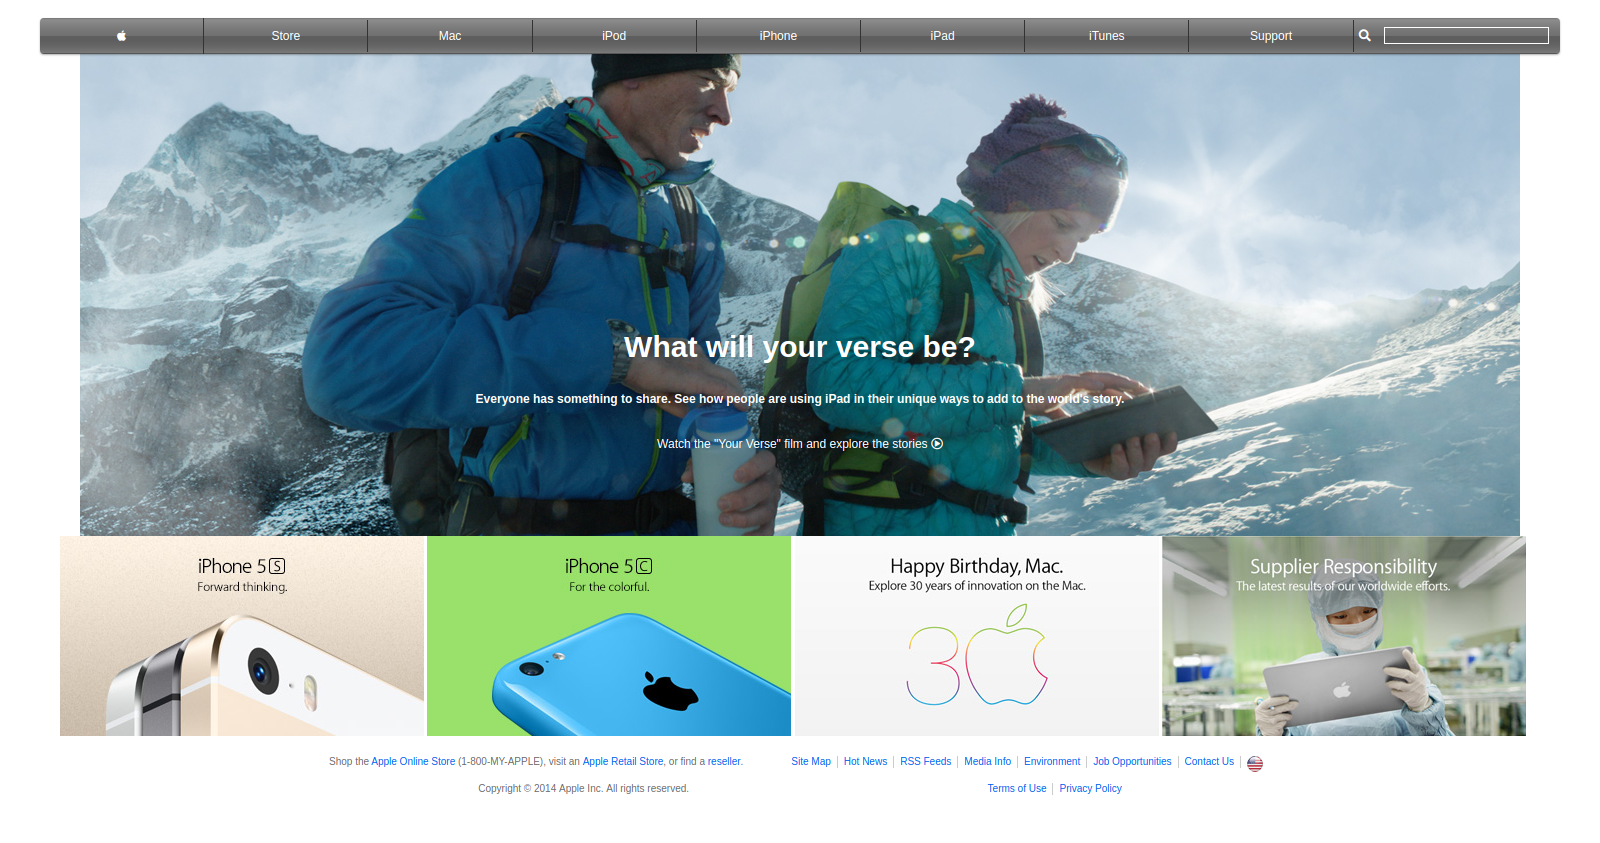
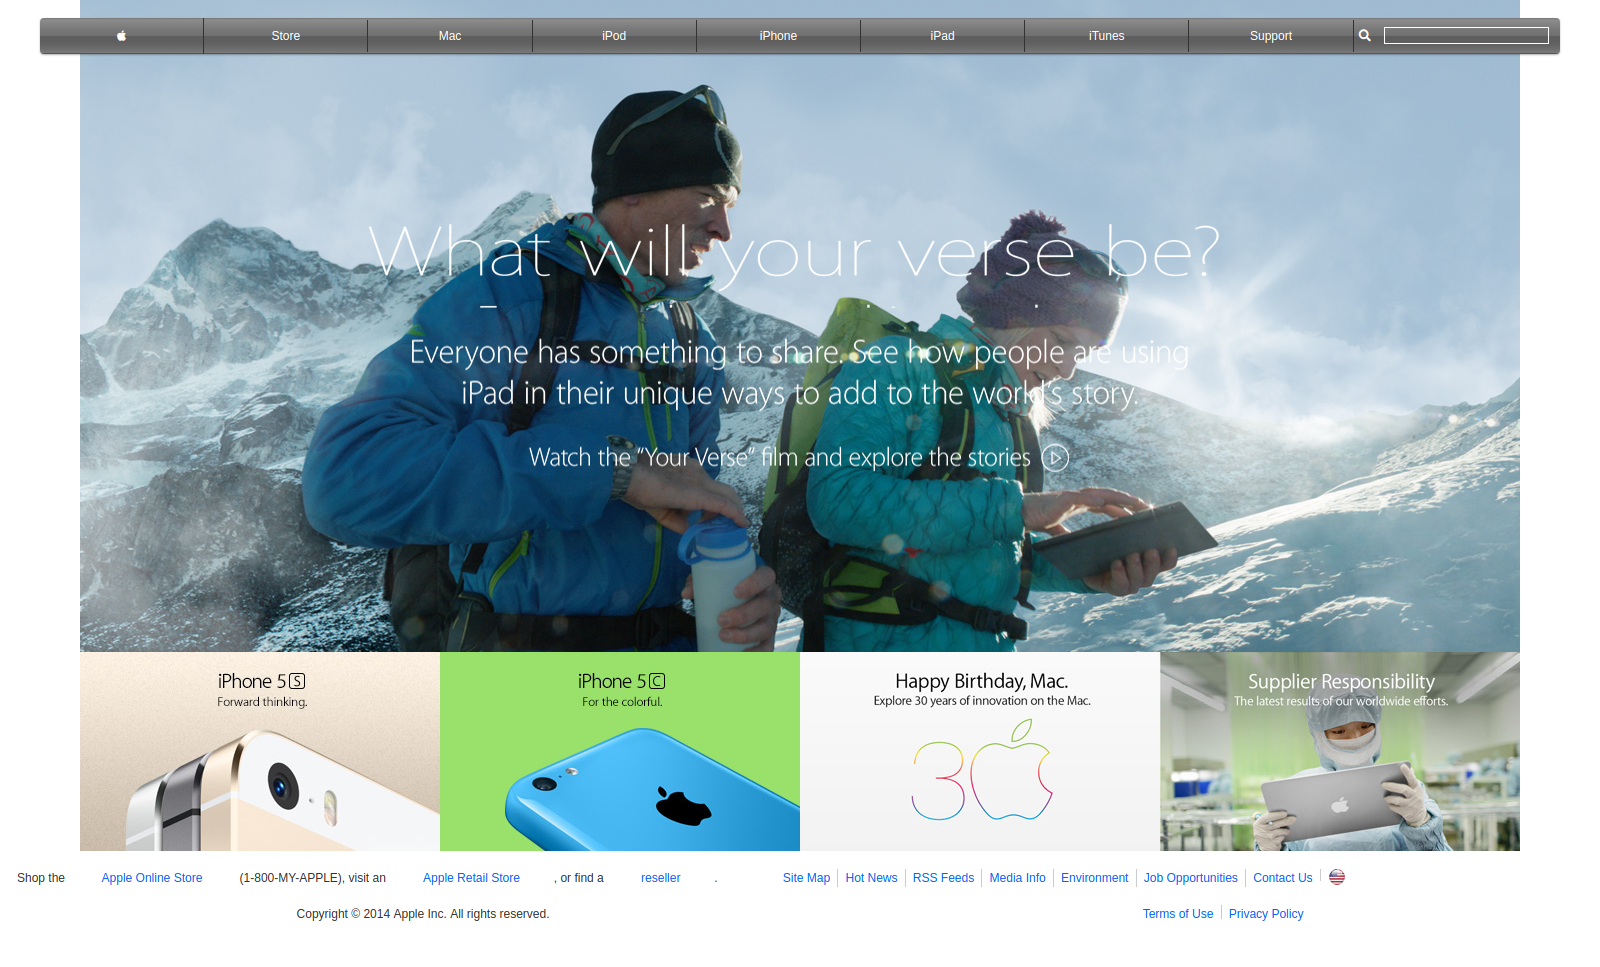
fixed tse request

diff --git a/index.html b/index.html
@@ -60,53 +60,55 @@
                 <div class="promo"></div>
             </a>
         </div>
-        <div class="top">
-            <p class="left">
-                Shop the 
-                <a href="#">&nbsp;Apple Online Store </a>&nbsp;(1-800-MY-APPLE), visit an&nbsp;<a href="#">Apple Retail Store</a>, or find a&nbsp;<a href="#">reseller</a>.
-            </p>
-            <ul class="right">
-                <li class="first">
-                    <a href="#">Site Map</a>
-                </li>
-                <li>
-                    <a href="#">Hot News</a>
-                </li>
-                <li>
-                    <a href="#">RSS Feeds</a>
-                </li>
-                <li>
-                    <a href="#">Media Info</a>
-                </li>
-                <li>
-                    <a href="#">Environment</a>
-                </li>
-                <li>
-                    <a href="#">Job Opportunities</a>
-                </li>
-                <li>
-                    <a href="#">Contact Us</a>
-                </li>
-                <li class="worldwide">
-                    <a href="#">
-                        <img src="./img/usa.png" alt="Choose your country or region" height="16" width="16">
-                    </a>
-                </li>
-            </ul>
-        </div>    
-        <div class="clear left">
-            <p class="copyright">
-                    Copyright © 2014 Apple Inc. All rights reserved.
-            </p>
-            <ul class="down">
-                <li class="first">
-                    <a href="#">Terms of Use</a>
-                </li>
-                <li>
-                    <a href="#">Privacy Policy</a>
-                </li>
-            </ul>
-        </div>
+        <nav>
+            <div class="top">
+                <p class="left">
+                    Shop the 
+                    <a href="#">&nbsp;Apple Online Store </a>&nbsp;(1-800-MY-APPLE), visit an&nbsp;<a href="#">Apple Retail Store</a>, or find a&nbsp;<a href="#">reseller</a>.
+                </p>
+                <ul class="right">
+                    <li class="first">
+                        <a href="#">Site Map</a>
+                    </li>
+                    <li>
+                        <a href="#">Hot News</a>
+                    </li>
+                    <li>
+                        <a href="#">RSS Feeds</a>
+                    </li>
+                    <li>
+                        <a href="#">Media Info</a>
+                    </li>
+                    <li>
+                        <a href="#">Environment</a>
+                    </li>
+                    <li>
+                        <a href="#">Job Opportunities</a>
+                    </li>
+                    <li>
+                        <a href="#">Contact Us</a>
+                    </li>
+                    <li class="worldwide">
+                        <a href="#">
+                            <img src="./img/usa.png" alt="Choose your country or region" height="16" width="16">
+                        </a>
+                    </li>
+                </ul>
+            </div>    
+            <div class="clear left">
+                <p class="copyright">
+                        Copyright © 2014 Apple Inc. All rights reserved.
+                </p>
+                <ul class="down">
+                    <li class="first">
+                        <a href="#">Terms of Use</a>
+                    </li>
+                    <li>
+                        <a href="#">Privacy Policy</a>
+                    </li>
+                </ul>
+            </div>
+        </nav>
     </footer>
 </body>
 </html>

diff --git a/style/style.css b/style/style.css
@@ -59,6 +59,10 @@ body {
     -webkit-font-smoothing: antialiased;
 }
 
+main {
+    height: 645px;
+}
+
 .apple-nav {
     background: 
         -webkit-gradient(linear, 0 0, 0 100%, 
@@ -177,17 +181,13 @@ a {
     text-decoration: none;
 }
 
-/* .hero-verse {
+.hero-verse {
     background-color: #5e4e4e;
     position: absolute;
-    top: 0;
-    top: 0;
-    left: 0;
-    right: 0;
     width: 100%;
     height: 652px;
     background: url(../img/your_verse_hero.jpg) 50% 100% no-repeat;
-} */
+}
 
 .article {
     display: block;
@@ -299,9 +299,12 @@ h2 {
 }
 
 footer {
+    box-sizing: border-box;
     display: flex;
+    flex-direction: column; 
     justify-content: center;
     width: 100%;
+    margin-top: 6px;
     margin-bottom: 48px;
 }
 
@@ -318,8 +321,17 @@ footer li:nth-child(n+2) {
 }
 
 .container {
-    max-width: 1440px;
+    height: 200px;
+    display: flex;
+    flex-direction: row;
+    justify-content: center;
+    width: 100%;
     margin: 0 auto;
+}
+
+.container a {
+    width: 25%;
+    max-width: 360px;
 }
 
 .promos a:nth-child(1) {
@@ -340,11 +352,9 @@ footer li:nth-child(n+2) {
 
 .promos div {
     background-repeat: no-repeat;
-    background-position: bottom;
     background-size: auto;
     margin: 0;
     padding: 0;
-    border: 0.5px solid white;
 }
 
 .promo {
